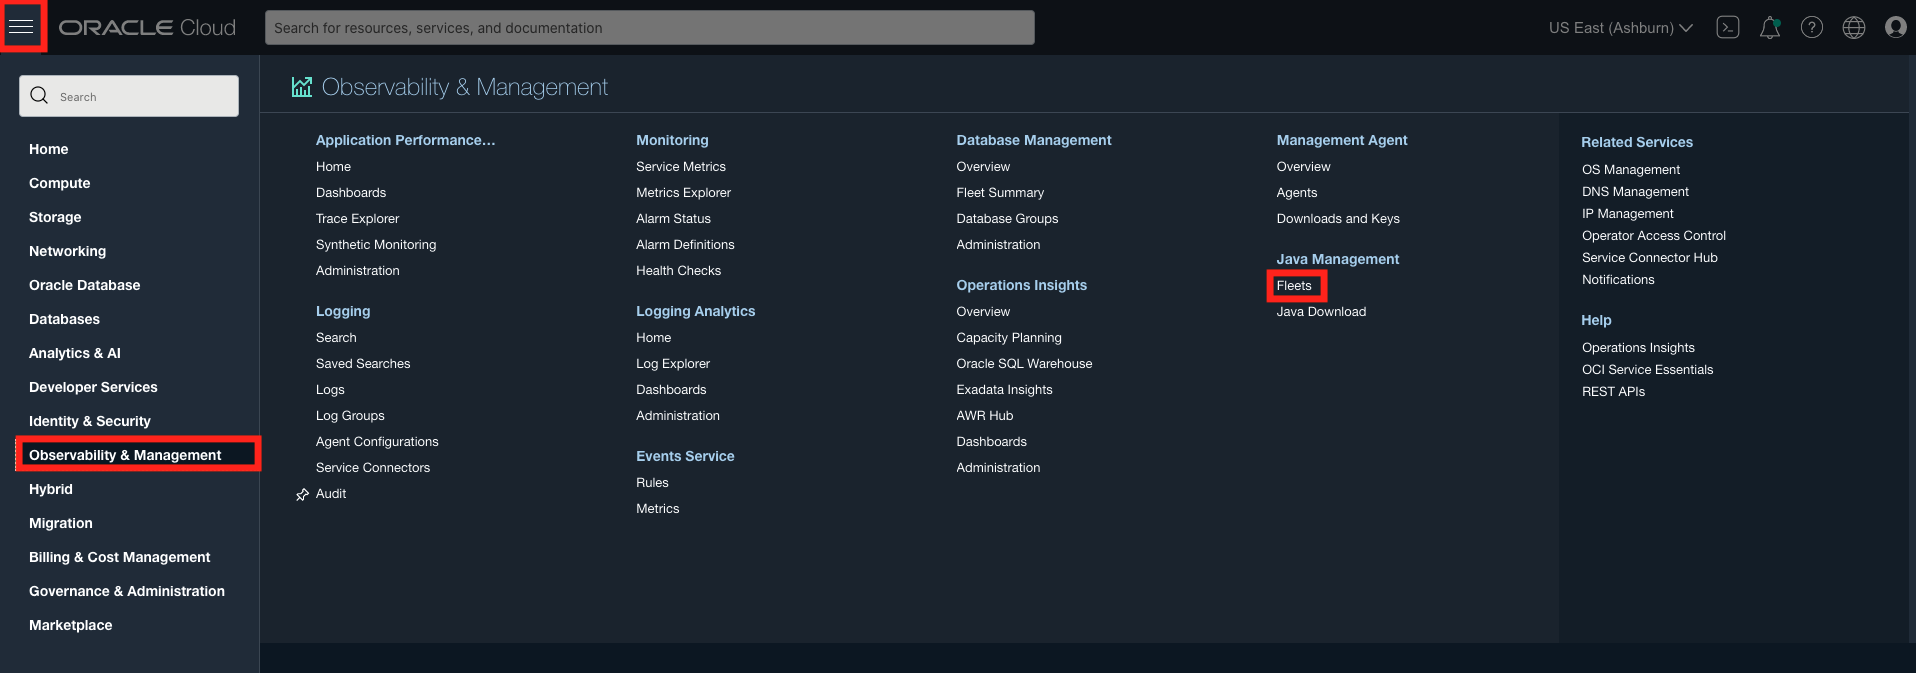
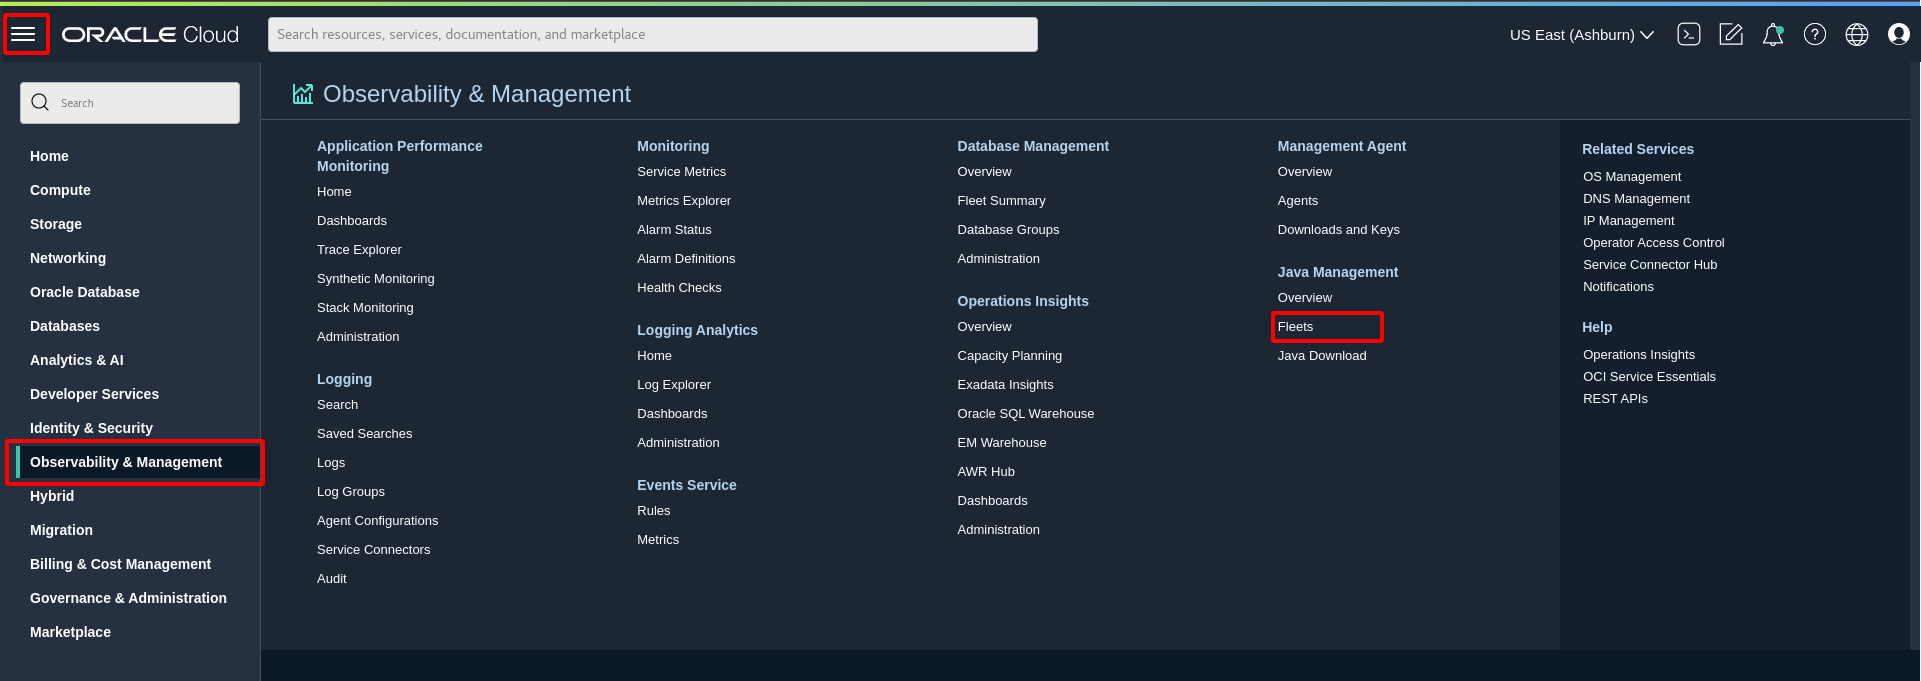
WS2 4 Restructure lab 1, also updated some navigation images

diff --git a/java-management-lifecycle-management/set-up-and-enable-lcm-on-jms/set-up-and-enable-lcm-on-jms.md b/java-management-lifecycle-management/set-up-and-enable-lcm-on-jms/set-up-and-enable-lcm-on-jms.md
@@ -5,15 +5,13 @@
 Before you can start using Lifecycle Management operations, you must ensure that your Oracle Cloud Infrastructure environment is set up correctly by following the workshop [Manage Java Runtimes, Applications and Managed Instances Inventory with Java Management Service](https://apexapps.oracle.com/pls/apex/dbpm/r/livelabs/view-workshop?wid=912). These OCI Resources allow the communication between all the required components and cloud services.
 
 
-Estimated Time: 30 minutes
+Estimated Time: 10 minutes
 
 ### Objectives
 
 In this lab, you will:
 
-  *  Configure an OCI host to enable LCM operations.
-  *  Configure a non-OCI host to enable LCM operations.
-
+  *  Configure a fleet to enable LCM operations.
 
 ### Prerequisites
 
@@ -21,221 +19,18 @@ In this lab, you will:
  * You are using an Oracle Linux image or Windows OS on your host machine or compute instance for this workshop.
  * You have successfully completed the installation of the Management Agent on your OCI or non-OCI hosts following steps in [Manage Java Runtimes, Applications and Managed Instances Inventory with Java Management Service](https://apexapps.oracle.com/pls/apex/dbpm/r/livelabs/view-workshop?wid=912).
 
-## Task 1: Configure an OCI host to enable LCM operations
+## Task 1: Configure a fleet to enable LCM operations
 
-After you have installed the Management Agent, follow the steps below to verify required plugins and enable LCM operations.
+1. In the Oracle Cloud Console, open the navigation menu, click **Observability & Management**, and then click **Fleets** under **Java Management**. Select the fleet that you are interested in.
+  ![image of console navigation to access fleet](images/console-navigation-jms.png)
 
-### **OCI Compute Instance host**
-If you are using an OCI compute instance and it already has the Management Agent installed using OCA and `Java Usage Tracking` plugin deployed, then follow the steps to enable Oracle Java Management plugin and Verify the OCA installation package version.
+2. Click **Edit Properties**.
 
-1. There are two ways to verify and enable `Oracle Java Management Service` plugin.
+  ![image of edit fleet properties](images/fleet-edit-properties.png)
 
-  **Using OCI Console:** 
-    * In the Oracle Cloud console, click **Instances** under **Compute**, and select the instance that you are interested in.
+3. Ensure that the **Enable advanced features** box is checked.
 
-     ![image of navigate from OCI console menu to computer instances](images/navigate-to-computer-instance.png)
-
-    * Click the **Oracle Cloud Agent** tab. The list of plugins is displayed. Verify that the **Oracle Java Management Service** OCA plugin is enabled. If it is disabled, toggle the switch for the Oracle Java Management Service plugin and ensure that the status is set to **Running**. This may take 5 to 10 minutes. This will enable the LCM operations for the chosen OCI Compute Instance.
-
-      ![image of disabled oracle java management service oca plugin](images/oracle-jms-oca-plugin-disabled.png)
-
-  **Using Cloud Shell:**
-    * Alternatively, you can use Cloud Shell to verify and enable `Oracle Java Management Service` plugin. Click the Cloud Shell icon in the Console header. This icon is accessible from mostly all the OCI Console pages.
-
-      ![image of location of Cloud Shell icon](images/oci-cloud-shell-navigate.png)
-
-      The Cloud Shell will open and may look something like this.
-      ![image of Cloud Shell terminal](images/oci-cloud-shell-console.png)
-
-      You can use the icons in the upper right corner of the Cloud Shell window to minimize, maximize, and close your Cloud Shell session. 
-      ![image of buttons on Cloud Shell](images/oci-cloud-shell-buttons.png)
-
-
-    * In Cloud Shell add the following to get the Instance details. You can copy the Instance OCID from Instance detail page.
-        ```
-        <copy>
-       oci compute instance get --instance-id <INSTANCE OCID>
-        </copy>
-        ```
-
-        The response may look like this.
-
-        ![image of entering a command in Cloud Shell](images/oci-cloud-shell-command.png)
-
-    * JMS Agent plugin is controlled through this JSON tag.
-        ```
-        <copy>
-        {
-          "desired-state": "DISABLED",
-          "name": "Oracle Java Management Service"
-        }        </copy>
-        ```
-
-        If the `desired-state` is `DISABLED` then proceed to next step to change the state to `ENABLED`, else you can skip to Step 2.
-     
-
-
-     * Create a configuration json file and add the following json code in it.
-        ```
-        <copy>
-        nano config.json  
-        </copy>
-        ```
-
-        ```
-        <copy>
-        {
-      "are-all-plugins-disabled": false,
-      "is-management-disabled": false,
-      "is-monitoring-disabled": false,
-      "plugins-config": [
-        {
-          "desired-state": "DISABLED",
-          "name": "Vulnerability Scanning"
-        },
-        {
-          "desired-state": "ENABLED",
-          "name": "OS Management Service Agent"
-        },
-        {
-          "desired-state": "DISABLED",
-          "name": "Custom Logs Monitoring"
-        },
-        {
-          "desired-state": "ENABLED",
-          "name": "Compute Instance Run Command"
-        },
-        {
-          "desired-state": "ENABLED",
-          "name": "Compute Instance Monitoring"
-        },
-        {
-          "desired-state": "DISABLED",
-          "name": "Block Volume Management"
-        },
-        {
-          "desired-state": "DISABLED",
-          "name": "Bastion"
-        },
-        {
-          "desired-state": "ENABLED",
-          "name": "Management Agent"
-        },
-        {
-          "desired-state": "ENABLED",
-          "name": "Oracle Java Management Service"
-        }
-      ]
-}
-
-        </copy>
-        ```
-
-        To save the file, press **CTRL+x**. Before exiting, nano will ask you if you wish to save the file: Type **y** to save and exit, type **n** to abandon your changes and exit.
-      
-
-
-     * Now, in Cloud Shell add the following to update the `Oracle Java Management Service` plugin state from `DISABLED` to `ENABLED`.
-
-      ```
-      <copy>
-      oci compute instance update --instance-id <INSTANCE OCID> --agent-config file://config.json
-      </copy>
-      ```
-
-      If you see the response like this, the `Oracle Java Management Service` plugin has been enabled. Else in case of any error, please refer to this link [Using CLI](https://docs.oracle.com/en-us/iaas/Content/API/SDKDocs/cliusing.htm).
-
-        ![image of entering a command in Cloud Shell](images/oci-cloud-shell-update-instance-command.png)
-
-
-2. Next, in the Oracle Cloud Console, open the navigation menu, click **Observability & Management**, and under **Management Agent**, click **Agents**. Select the agent you are interested in.
-
-  ![image of console navigation to access management agent overview](images/management-agent-overview.png)
-
-  In your agent, click **Deploy plug-ins**.
-  ![image of agent with deploy plug-ins button](images/agent-deploy-plugins.png)
-
-  Ensure that the **Java Usage Tracking** box is checked.
-  ![image of checking java usage tracking box](images/agent-check-java-usage-tracking.png)
-
-  If you have verified that both the **Oracle Java Management Service OCA plugin** and **Java Usage Tracker service plugin** have been deployed, proceed to verify the OCA installation package version and update it.
-
-3. Access OCI Computer Instance via SSH.
-
-4. Check the version of the current OCA installation package.
-    ```
-    <copy>
-    yum info oracle-cloud-agent
-    </copy>
-    ```
-  If current version of the OCA installation package is the latest one, then no further steps are required. Else you should see output something like this:
-    ![image of terminal showing how to check for available oca packages](images/oca-version-checking-console.png)
-
-5. Update the OCA Installation Package.
-    ```
-    <copy>
-    rpm -qa | grep oracle-cloud-agent
-
-    sudo yum update oracle-cloud-agent -y
-    </copy>
-    ```
-    
-## Task 2: Configure a non-OCI host to enable LCM operations
-
-
-### **Non-OCI host**
-If you are using a non-OCI host and it has the Management Agent installed following the steps in the workshop [Manage Java Runtimes, Applications and Managed Instances Inventory with Java Management Service](https://apexapps.oracle.com/pls/apex/dbpm/r/livelabs/view-workshop?wid=912), then you just need to make a few changes to start using LCM features.
-
-
-1. Open the `/etc/sudoers` file.
-    ```
-    <copy>
-    sudo nano /etc/sudoers
-    </copy>
-    ```
-
-  Add the following lines to the end of the file:
-    ```
-    <copy>
-    #To change ownership of the Java Management Service plugin to root
-    mgmt_agent ALL=(ALL) NOPASSWD:/opt/oracle/mgmt_agent/agent_inst/bin/chown_recursive_ep.sh
-    #To run the Java Management Service plugin under root user
-    mgmt_agent ALL=(root) NOPASSWD: ALL
-    </copy>
-    ```
-
-2. To save the file, press **CTRL+x**. Before exiting, nano will ask you if you wish to save the file: Type **y** to save and exit, type **n** to abandon your changes and exit.
-
-3. Login to OCI Console.
-
-4. In the Oracle Cloud Console, open the navigation menu, click **Observability & Management**, and then click **Agents** under **Management Agent**.
-  ![image of console navigation to access management agent overview](images/management-agent-overview.png)
-
-5. From the Agents list, select for the agent that was recently installed.
-   ![image of agents main page](images/agents-main-page.png)
-
-6. In order to enable LCM operations `Java Management Service` Plug-in is required to be enabled. Take note of `Service Plug-ins` field. If `Java Management Service` plug-in missing then follow the next steps, else if `Java Management Service` and `Java Usage Tracker` both plug-ins are available then you can move to the next Task.
-
-  ![image of agent detail page](images/check-deploy-plug-ins.png)
-
-
-7. To enable `Java Management Service` plug-in, click on **Deploy plug-ins** button.
-
-  ![image of click on deploy plug-in button](images/deploy-plug-in-button.png)
-
-8. Check `Java Management Service` option and click on Update button.
-  ![image of updating the plug-in](images/deploy-jms-plug-in.png)
-
-9. After 5-10 minutes, you should see the `Java Management Service` plug-in enabled under `Service Plug-ins` field.
-  ![image of updated plug-in](images/deploy-jms-plug-in-done.png)
-
-
-
-
-
-
-
-
+  ![image of edit fleet properties detail](images/fleet-edit-properties-detail.png)
 
 You may now **proceed to the next lab.**
 
